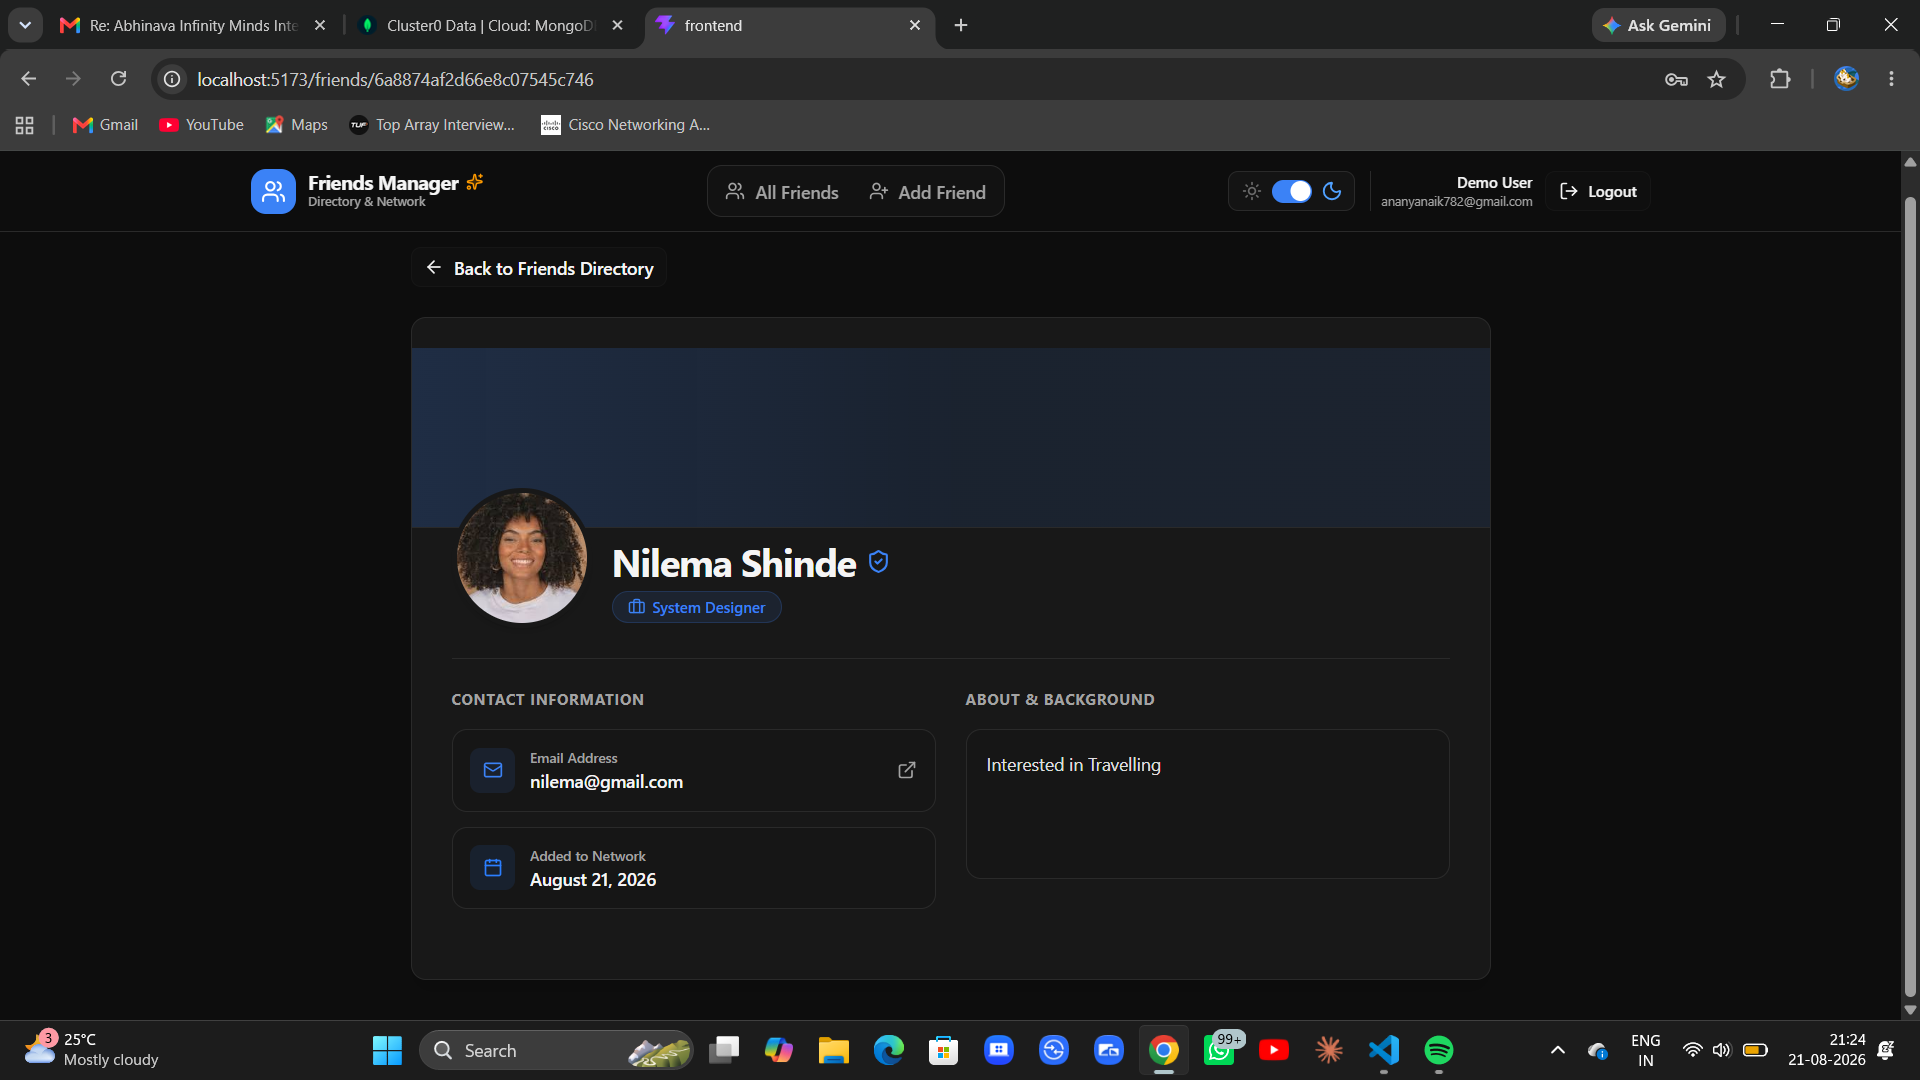
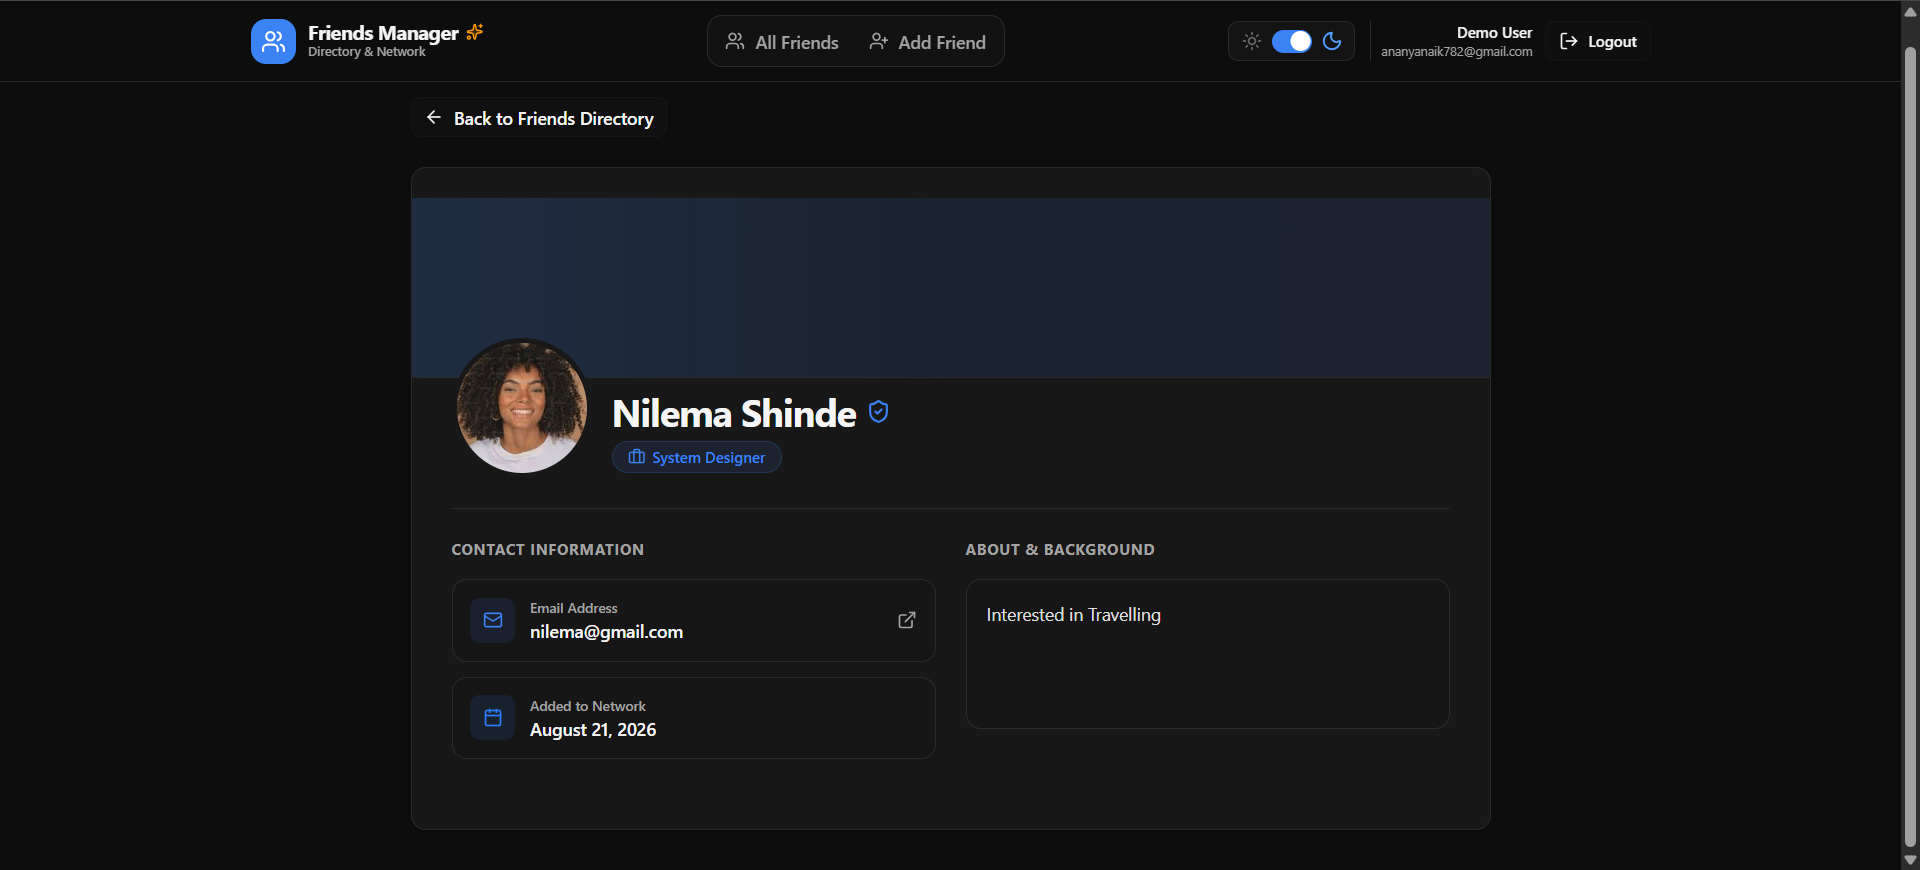
Screen

diff --git a/README.md b/README.md
@@ -20,13 +20,19 @@
 
 ## Screenshots
 
+### Sign In
+
 <p align="center">
   <img src="assets/screenshots/login.png" alt="Friends Manager sign-in screen" width="900" />
 </p>
 
+### Friends Directory
+
 <p align="center">
   <img src="assets/screenshots/friends-directory.png" alt="Friends directory" width="900" />
 </p>
+
+### Friend Profile
 
 <p align="center">
   <img src="assets/screenshots/friend-profile.png" alt="Friend profile" width="900" />
